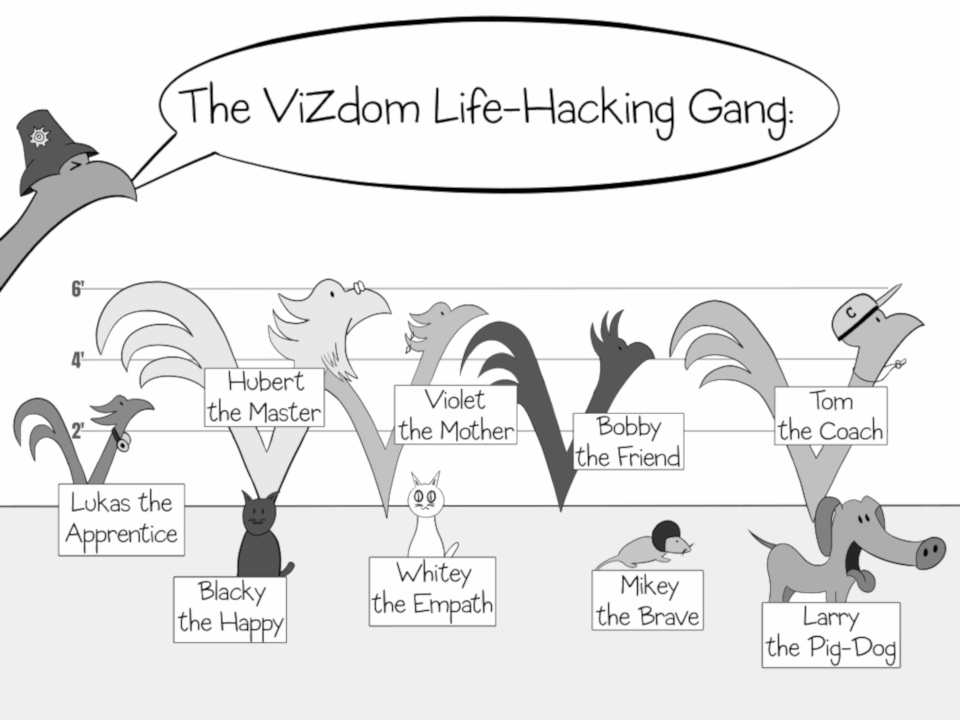
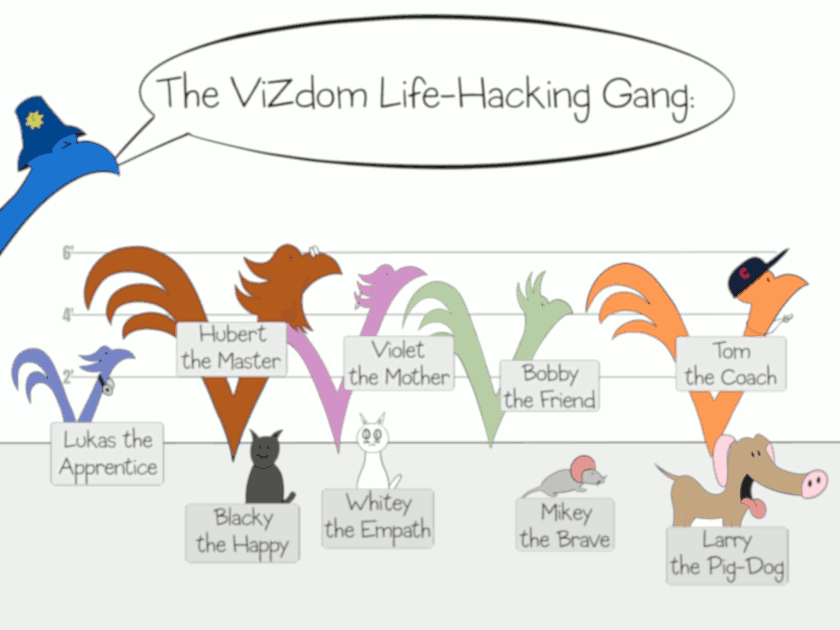
added mobile img (ugly hack)

diff --git a/_sass/components/_v2-note.scss b/_sass/components/_v2-note.scss
@@ -1,12 +1,12 @@
 .v2-note {
   padding: $spacing-unit;
   color: $heading-color;
-  box-shadow: 0px 5px 15px 0px rgba(0,0,0,.24);
+  box-shadow: 0 3px 5px 0 rgba(0,0,0,.26);
 }
 
 .v2-note-primary {
-  background: $brand-color;
-  color: #FFF;
+  background: $brand-secondary;
+  color: $heading-color;
 }
 
 .v2-note-warn {

diff --git a/_sass/base/_typography.scss b/_sass/base/_typography.scss
@@ -68,8 +68,20 @@ md-content {
     margin-left: 15px;
   }
 
-  .footnote {
+  .desktop-img {
+    display:block;
 
+    @include media-query ($on-mobile) {
+      display: none;
+    }
+  }
+
+  .mobile-img {
+    display: none;
+
+    @include media-query ($on-mobile) {
+      display: block;
+    }
   }
 }
 

diff --git a/products/vizdom/intro.md b/products/vizdom/intro.md
@@ -53,6 +53,10 @@ There are four strong reasons: 1) Memorization 2) Understanding 3) Speed Reading
 Let's have a look at ViZdom-style anecdotes. We are starting off with a simple one. Simple as in this anecdote works stand alone. We use it in the life-hack of increasing discipline. It illuminates the aspect that not all your attempts will work instantly. Hence, it is important that you develop persistence and keep on trying. Without further ado, here goes:
 
 ![]({{site.baseurl}}/images/comics/intro/never-give-up.png)
+{:.desktop-img}
+
+![]({{site.baseurl}}/images/comics/intro/mobile/never-give-up-m.png)
+{:.mobile-img}
 
 Almost every problem has a solution, but it may be difficult to envision. It often takes persistence, creativity, observational skills, and a willingness to think outside of the box to find your path to success.
 {:.v2-note.v2-note-primary}
@@ -61,6 +65,10 @@ Moving on to a more complex example:
 {:.text-center}
 
 ![]({{site.baseurl}}/images/comics/intro/premature-discipline.png)
+{:.desktop-img}
+
+![]({{site.baseurl}}/images/comics/intro/mobile/premature-discipline-m.png)
+{:.mobile-img}
 
 *We all have our internal pig-dog, who always tries to seduce us.* Who overpromises, who wants to cut corners, to party, to slack. When we give in, work does not get done, quality goes down. Self-discipline provides the counterforce in our struggle for a healthy balance of fun vs. work.
 
